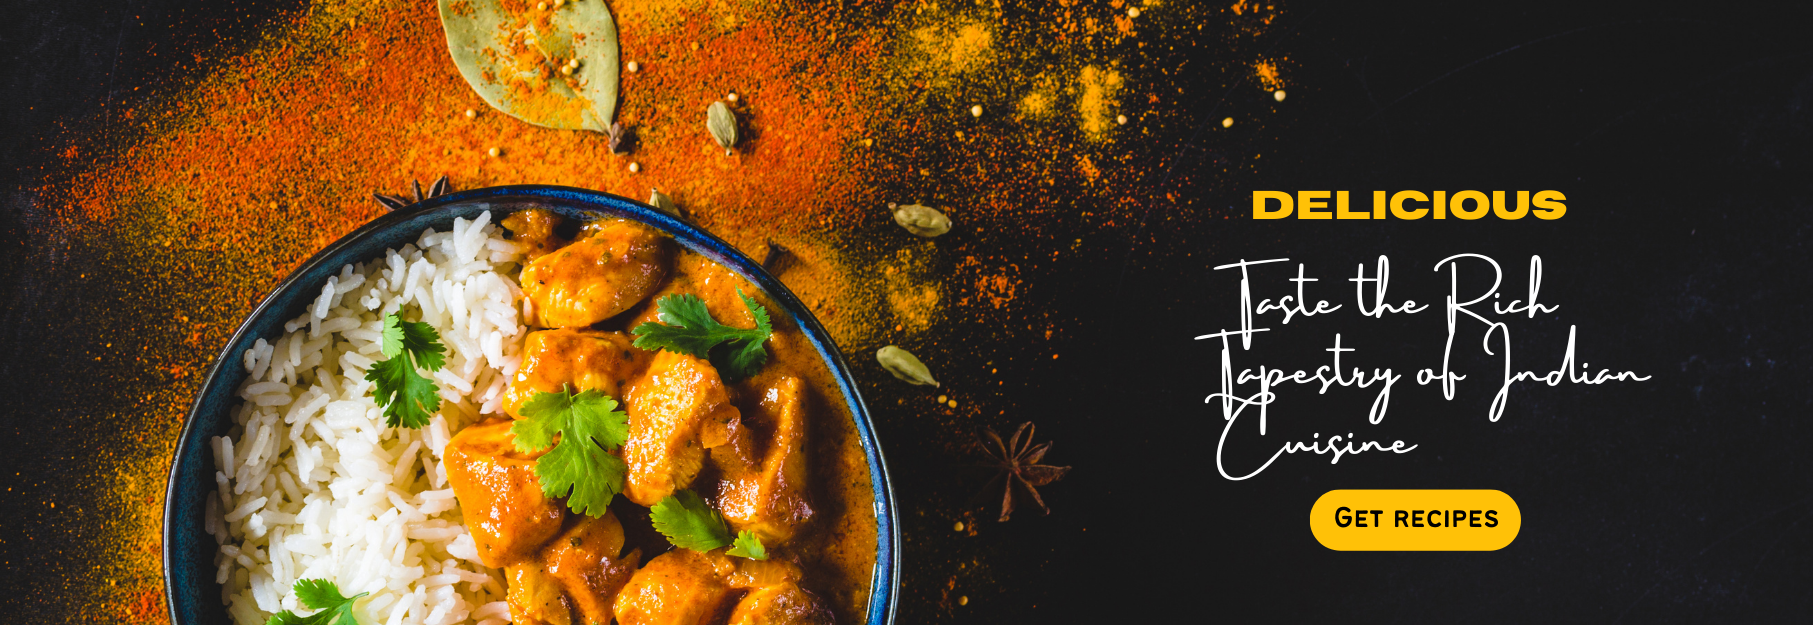
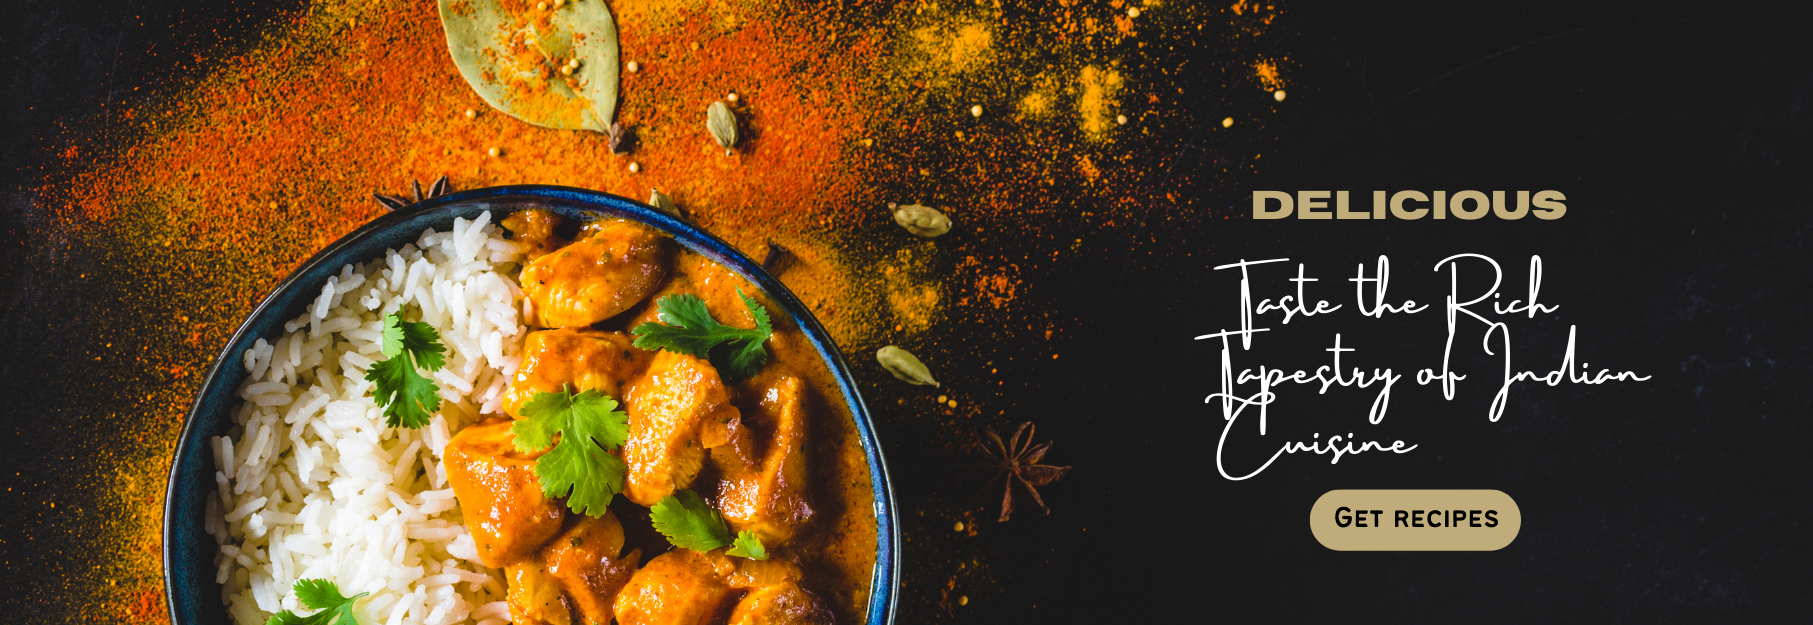
hero section update

Changed region(s): [[0.7104, 0.76, 0.8649, 0.8816], [0.6795, 0.304, 0.8649, 0.3648]]

diff --git a/index.html b/index.html
@@ -7,7 +7,7 @@
   <!-- ................. Bootstrap CSS ................. -->
   <link href="https://cdn.jsdelivr.net/npm/bootstrap@5.3.2/dist/css/bootstrap.min.css" rel="stylesheet"
     integrity="sha384-T3c6CoIi6uLrA9TneNEoa7RxnatzjcDSCmG1MXxSR1GAsXEV/Dwwykc2MPK8M2HN" crossorigin="anonymous">
-  <link href="style.css" rel="stylesheet" />
+  <link href="/CSS/style.css" rel="stylesheet" />
   <script src="script.js"></script>
 
   <title>Tasteful Twist</title>
@@ -25,8 +25,29 @@
 
   <!-- ................. Start Hero Section ................. -->
 
+  <section class="bg-off-white bg-gradient text-light p-5 p-lg-0 pt-lg-5 text-center text-sm-start ">
+
+    <div class="container">
+      <div class="d-sm-flex align-items-center justify-content-between">
+        <div>
+          <h1 class="text-black"><strong> Welcome To <span class="text-gold">Tasteful Twist </span></strong></h1>
+          <p class="lead my-4 text-black">
+            At Tasteful Twist, we invite you to explore a world of tantalizing tastes, where each recipe is a symphony
+            of flavors crafted to elevate your dining experience.
+          </p>
+          <a href="#recipes"><button class="btn bg-gold btn-lg">View Our Recipes >> </button></a>
+        </div>
+        <img class="img-fluid w-50 d-none d-sm-block" src="./Images/Chef.png" alt="">
+      </div>
+    </div>
+  </section>
+
+
+
   <!-- ................. End Hero Section ................. -->
 
+
+  <!-- ................. Start Slider Section ................. -->
   <div id="carouselExampleIndicators" class="carousel slide">
     <div class="carousel-indicators">
       <button type="button" data-bs-target="#carouselExampleIndicators" data-bs-slide-to="0" class="active"
@@ -59,22 +80,23 @@
     </button>
   </div>
 
+  <!-- ................. End Slider Section ................. -->
 
 
 
   <!-- ................. Start Recipe Card Section ................. -->
 
   <!-- ................. Explore Quick and Easy Recipes Card Section ................. -->
-  <section id="projects" class="p-5">
+  <section id="recipes" class="p-5">
     <div class="container">
-      <h2 class="fs-1 text-center text-warning"><strong>Explore Quick and Easy Recipes </strong></h2>
+      <h2 class="fs-1 text-center text-gold"><strong>Explore Quick and Easy Recipes </strong></h2>
       <p class="text-center""> Browse through our handpicked assortment of recipes, thoughtfully crafted to suit your hectic timetable</p>
       <div class=" row text-center g-4">
       <div class="col-md">
-        <div class="card bg-dark text-light">
+        <div class="card bg-black text-light">
           <div class="card-body text-center">
             <div class="h1 mb-3">
-              <img src="./Images/15min.png" class="img-fluid img-2" alt="">
+              <img src="./Images/15min.png" class="img-fluid" alt="">
             </div>
             <h3 class="card-title mb-3">
               15 Minute Recipes
@@ -84,15 +106,15 @@
               sequi! Dolorem.
             </p>
             <a href="#">
-              <button class="btn btn-primary">View Recipes</button></a>
+              <button class="btn bg-gold">View Recipes</button></a>
           </div>
         </div>
       </div>
       <div class="col-md">
-        <div class="card bg-dark text-light">
+        <div class="card bg-black text-light">
           <div class="card-body text-center">
             <div class="h1 mb-3">
-              <img src="./Images/30min.png" class="img-fluid img-2" alt="">
+              <img src="./Images/30min.png" class="img-fluid" alt="">
             </div>
             <h3 class="card-title mb-3">
               30 Minute Recipes
@@ -102,15 +124,15 @@
               sequi! Dolorem.
             </p>
             <a href="#">
-              <button class="btn btn-primary">View Recipes</button></a>
+              <button class="btn bg-gold">View Recipes</button></a>
           </div>
         </div>
       </div>
       <div class="col-md">
-        <div class="card bg-dark text-light">
+        <div class="card bg-black text-light">
           <div class="card-body text-center">
             <div class="h1 mb-3">
-              <img src="./Images/60min.png" class="img-fluid img-2" alt="">
+              <img src="./Images/60min.png" class="img-fluid" alt="">
             </div>
             <h3 class="card-title mb-3">
               60 Minute Recipes
@@ -120,7 +142,7 @@
               sequi! Dolorem.
             </p>
             <a href="#">
-              <button class="btn btn-primary">View Recipes</button></a>
+              <button class="btn bg-gold">View Recipes</button></a>
           </div>
         </div>
       </div>
@@ -128,13 +150,13 @@
   </section>
 
   <!-- ................. Continental Culinary Classics Card Section ................. -->
-  <section id="projects" class="p-5 bg-danger">
+  <section id="projects" class="p-5 bg-black">
     <div class="container">
-      <h2 class="fs-1 text-center text-warning"><strong>Continental Culinary Classics</strong></h2>
+      <h2 class="fs-1 text-center text-gold"><strong>Continental Culinary Classics</strong></h2>
       <p class="text-center text-light""> Step into the refined world of Continental Culinary Classics, where we present a curated selection of iconic dishes from across the European continent</p>
       <div class=" row text-center g-4">
       <div class="col-md">
-        <div class="card bg-dark text-light">
+        <div class="card bg-cream text-bark">
           <div class="card-body text-center">
             <div class="h1 mb-3">
               <img src="./Images/Italian Cuisine.png" class="img-fluid img-2" alt="">
@@ -147,12 +169,12 @@
               sequi! Dolorem.
             </p>
             <a href="#">
-              <button class="btn btn-primary">View Recipes</button></a>
+              <button class="btn bg-gold">View Recipes</button></a>
           </div>
         </div>
       </div>
       <div class="col-md">
-        <div class="card bg-dark text-light">
+        <div class="card bg-cream text-dark">
           <div class="card-body text-center">
             <div class="h1 mb-3">
               <img src="./Images/Greek Cuisine.png" class="img-fluid img-2" alt="">
@@ -165,15 +187,15 @@
               sequi! Dolorem.
             </p>
             <a href="#">
-              <button class="btn btn-primary">View Recipes</button></a>
+              <button class="btn bg-gold">View Recipes</button></a>
           </div>
         </div>
       </div>
       <div class="col-md">
-        <div class="card bg-dark text-light">
+        <div class="card bg-cream text-dark">
           <div class="card-body text-center">
             <div class="h1 mb-3">
-              <img src="./Images/Spanish Cuisine.png" class="img-fluid img-2" alt="">
+              <img src="./Images/Spanish Cuisine.png" class="img-fluid" alt="">
             </div>
             <h3 class="card-title mb-3">
               Spanish Cuisine
@@ -183,7 +205,7 @@
               sequi! Dolorem.
             </p>
             <a href="#">
-              <button class="btn btn-primary">View Recipes</button></a>
+              <button class="btn bg-gold">View Recipes</button></a>
           </div>
         </div>
       </div>
@@ -193,26 +215,23 @@
 
 
   <!-- ................. Start Subscribe Section ................. -->
-  <section class="bg-dark text-light p-5">
+  <section class="bg-cream  text-light p-5">
     <div class="container">
-      <div class="d-md-flex justify-container-between align-items-center">
-        <h3 class="bm-3 md-md-0">Sign Up For Yummy Daily Recipes To Your Inbox</h3>
+      <div class="d-md-flex justify-content-between align-items-center">
+        <h3 class="mb-3 mb-md-0 text-black">Sign Up For Yummy Daily Recipes To Your Inbox:</h3>
 
         <div class="input-group news-input">
-          <input type="text" class="form-control" placeholder="Enter Email"/>
-          <button class="btn btn-primary btn-lg" type="button">Subscribe</button>
+          <input type="text" class="form-control" placeholder="Enter Email" />
+          <button class="btn bg-dark text-light btn-lg" type="button">Subscribe</button>
         </div>
       </div>
     </div>
-
   </section>
-
   <!-- ................. End Subscribe Section ................. -->
 
 
 
   <!-- ................. Start Footer Section ................. -->
-
   <footer>
     <!-- ................. Start Bootstrap CSS ................. -->
     <script src="https://cdn.jsdelivr.net/npm/bootstrap@5.3.2/dist/js/bootstrap.bundle.min.js"

diff --git a/CSS/style.css b/CSS/style.css
@@ -1,5 +1,38 @@
-@media(min-width: 768px) {
-  .input-group { 
+@media (min-width: 768px) {
+  .news-input {
     width: 50%;
   }
+}
+
+
+/* Hex colours */
+
+.bg-grey {
+  background-color: #404146; 
+} 
+
+.bg-gold {
+  background-color: #C0AC7A; 
+} 
+
+
+.bg-light-grey {
+  background-color: #BFC3C6; 
+} 
+
+.bg-off-white {
+  background-color: #FFFAF4; 
+} 
+
+.bg-cream {
+  background-color: #fdefdc; 
+} 
+ 
+
+.text-cream {
+  color: #f9e6cb; 
+} 
+
+.text-gold {
+  color: #C0AC7A;
 }
